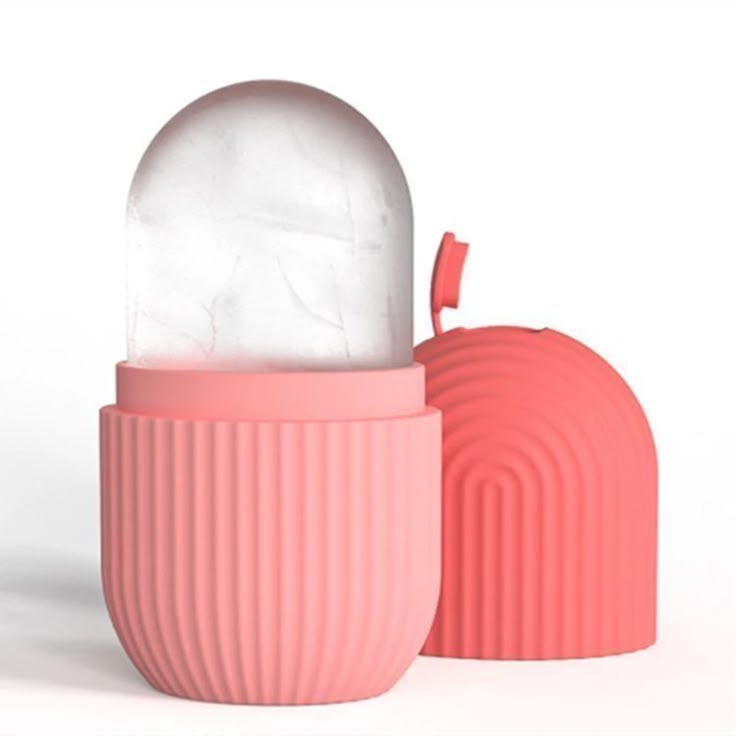
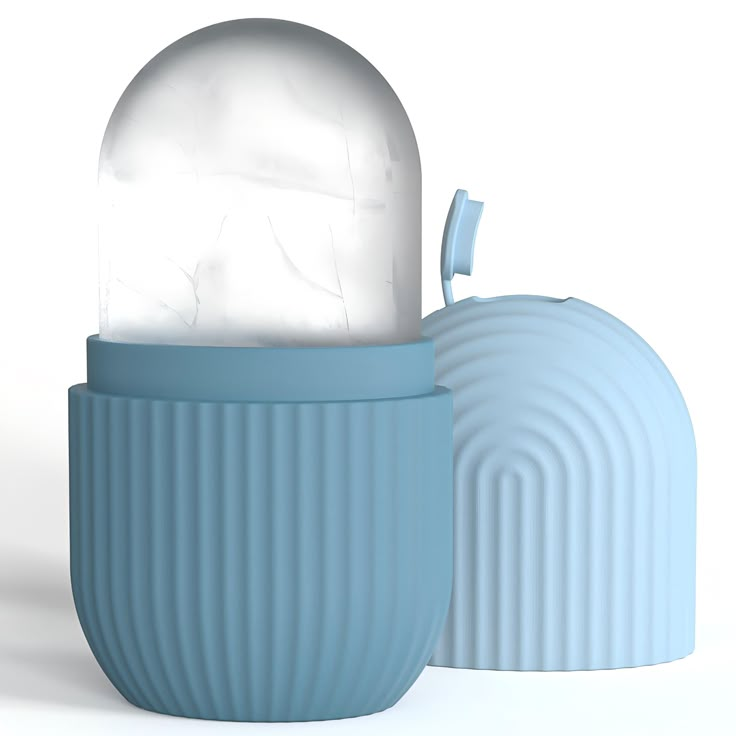
last modifeid

diff --git a/app/ice-roller/page.tsx b/app/ice-roller/page.tsx
@@ -15,11 +15,11 @@ import { ICE_ROLLER_PRICE } from "@/data/algeria-data";
 
 // Product images with models - ICE ROLLER PRODUCTS
 const PRODUCT_IMAGES: ProductImage[] = [
-  { url: "/ice-roller-1.jpg", model: "Modèle Ice Roller Vert" },
-  { url: "/ice-roller-2.jpg", model: "Modèle Ice Roller Gris" },
-  { url: "/ice-roller-3.jpg", model: "Modèle Ice Roller Crevette" },
-  { url: "/ice-roller-4.jpg", model: "Modèle Ice Roller Bleu" },
-  { url: "/ice-roller-5.jpg", model: "Modèle Ice Roller Noire" },
+  { url: "/ice-roller-1.jpg", model: "Modèle Vert 🟢" },
+  { url: "/ice-roller-2.jpg", model: "Modèle Bleu 🔵" },
+  { url: "/ice-roller-3.jpg", model: "Modèle Noire 🖤" },
+  { url: "/ice-roller-4.jpg", model: "Modèle Violet 🟣" },
+  { url: "/ice-roller-5.jpg", model: "Modèle Jaune 🟡" },
 ];
 
 const ICE_ROLLER_VIDEOS = [
